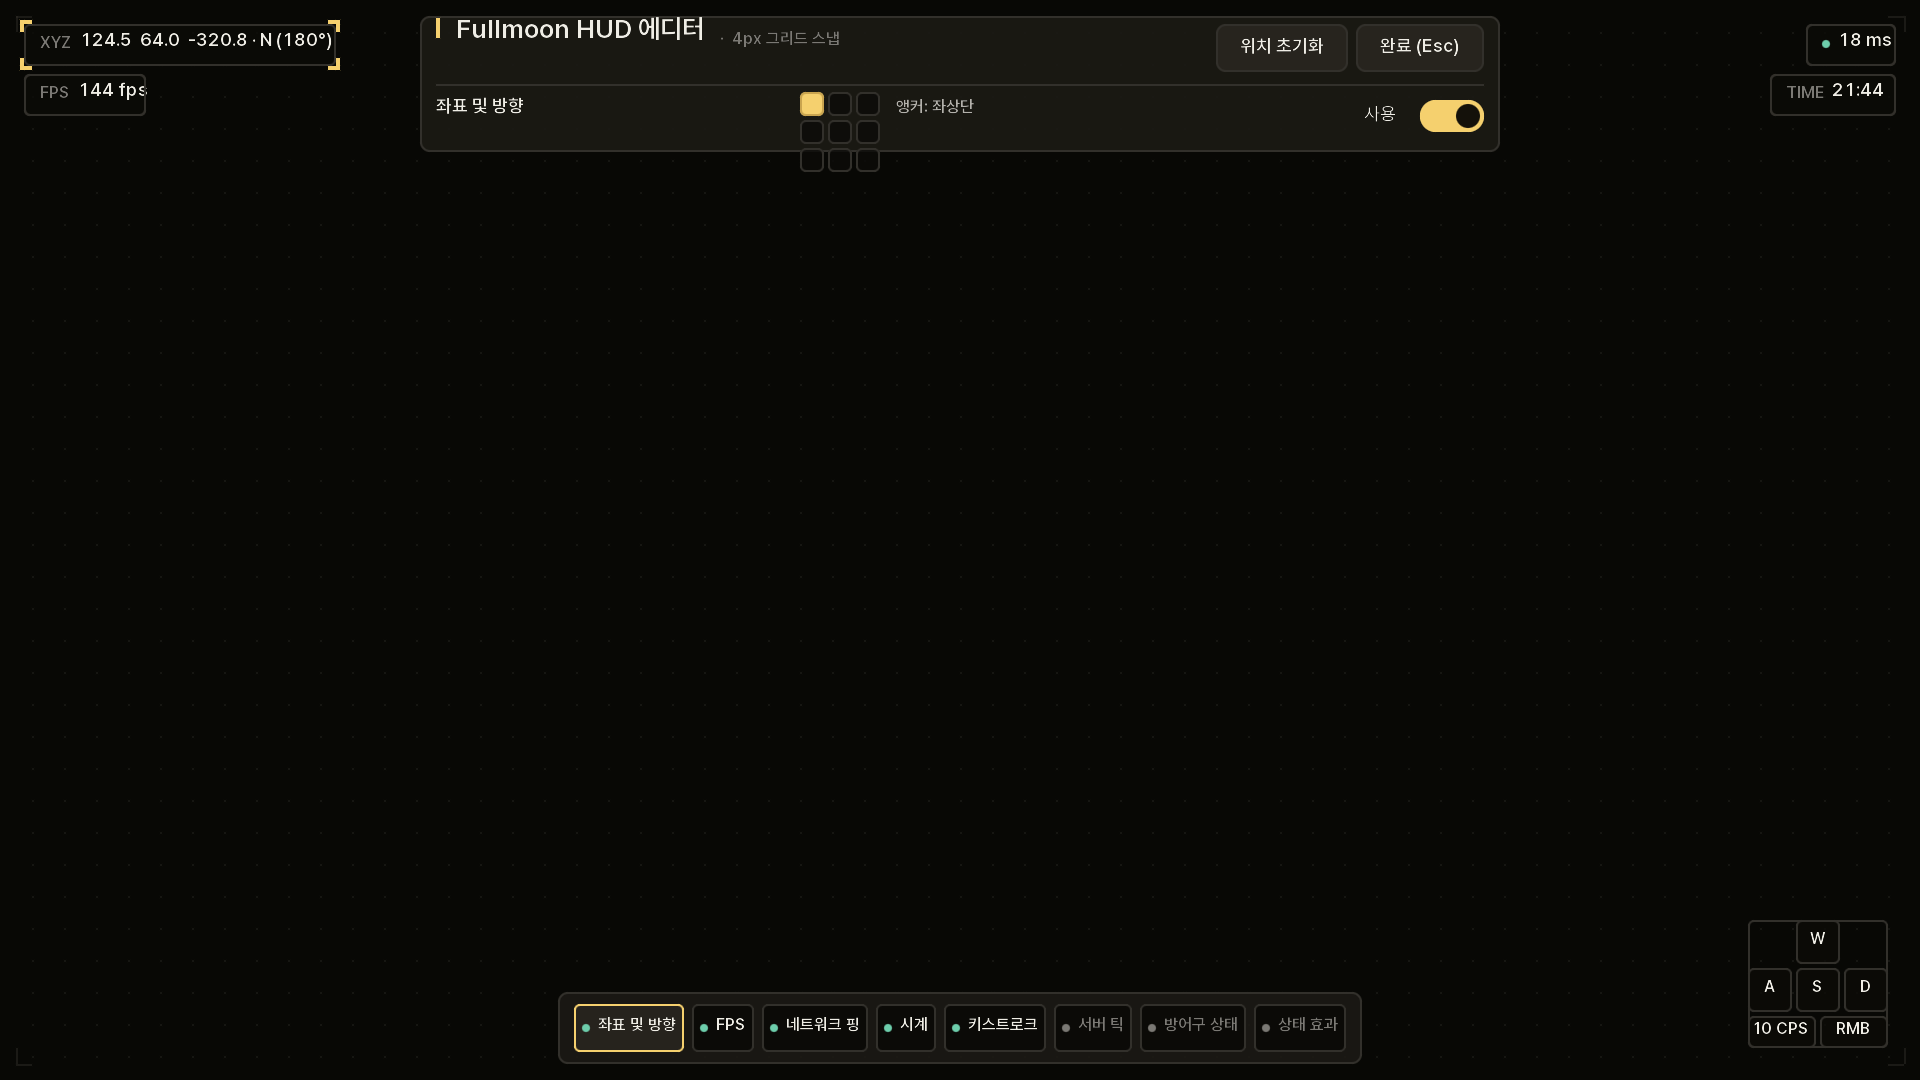
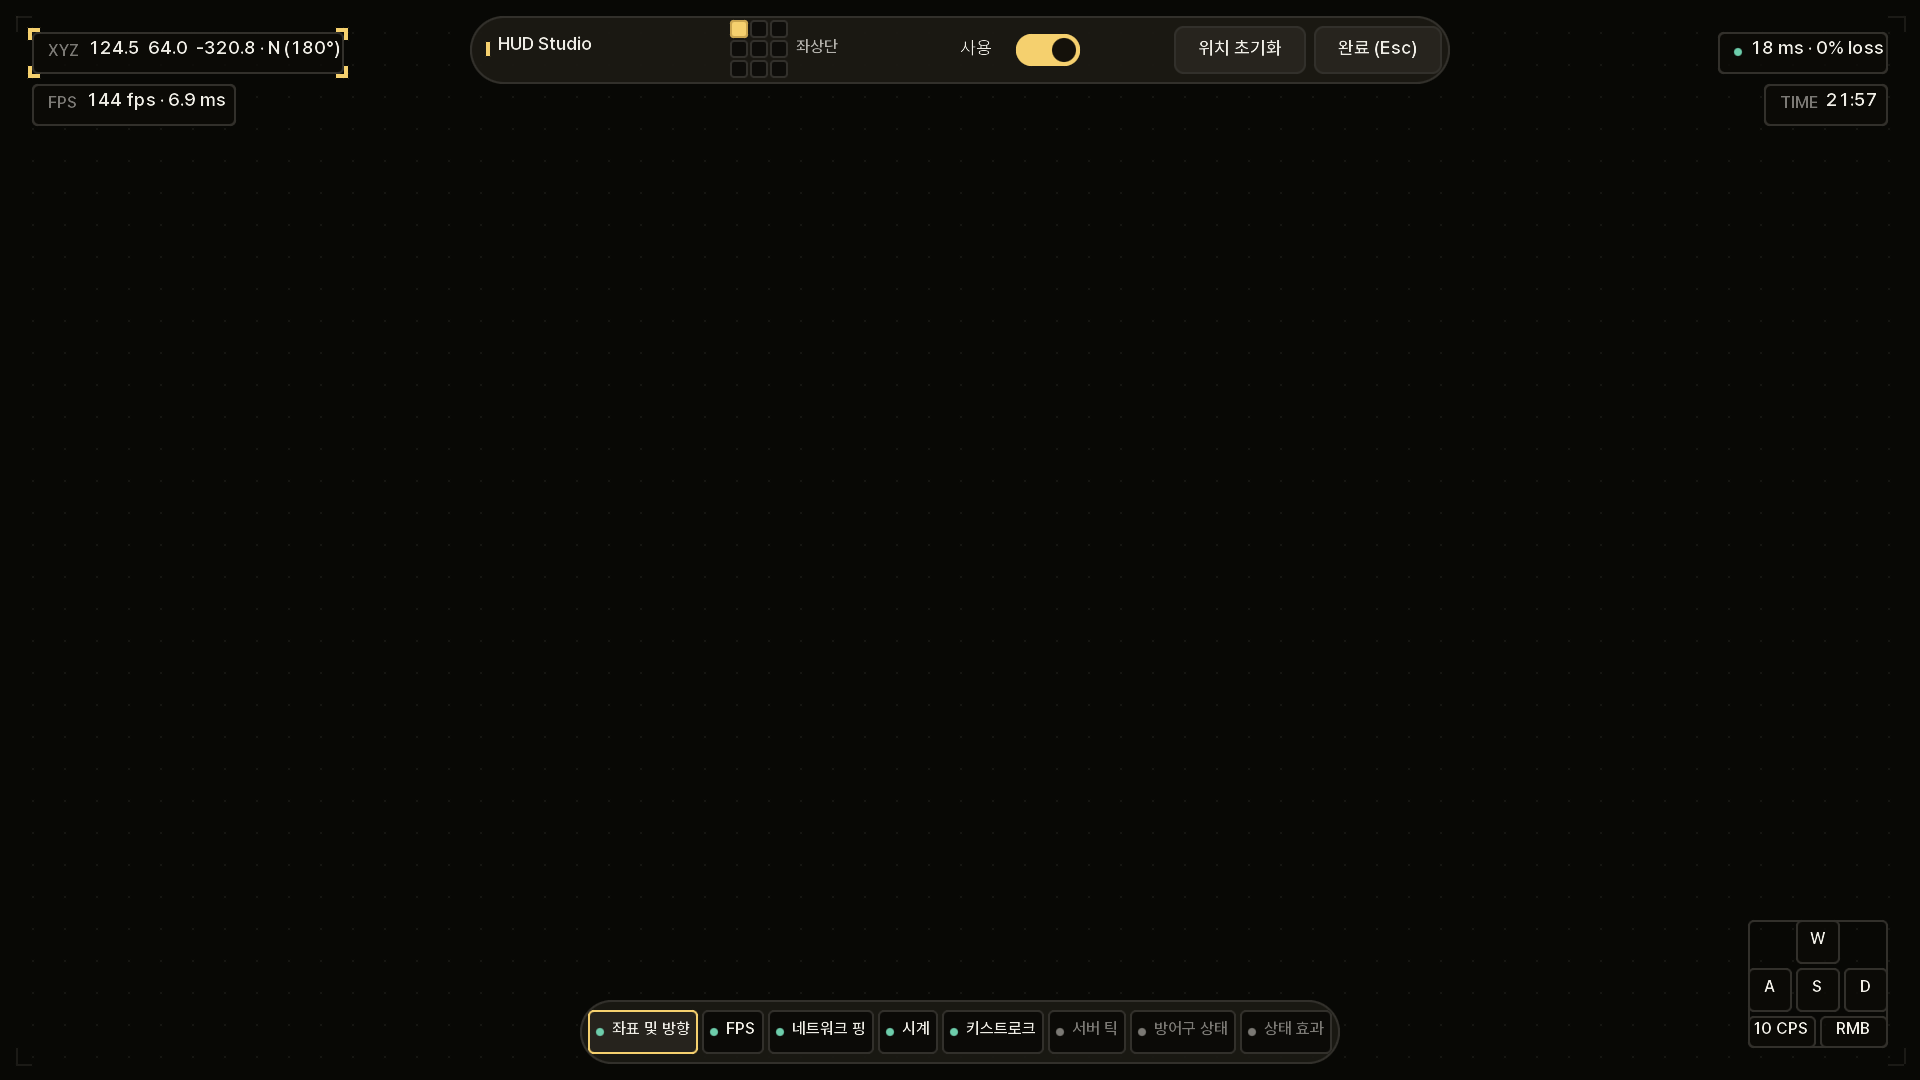
style(i3): fine-tune HUD Studio floating pill clearances, chip alignment, and live metrics

diff --git a/i3/mod/src/main/java/dev/fullmoon/client/hud/HudEditorScreen.java b/i3/mod/src/main/java/dev/fullmoon/client/hud/HudEditorScreen.java
@@ -24,19 +24,19 @@ import net.minecraft.network.chat.Component;
 
 import com.mojang.blaze3d.platform.InputConstants;
 
-/** Premier in-game HUD studio with visual grid, central control deck, 3x3 anchor picker, and module dock. */
+/** Premier in-game HUD studio with spatial dot grid, 490px floating control pill, and bottom dock. */
 public final class HudEditorScreen extends Screen {
     private static final int SNAP = 4;
     private static final int GRID_STEP = 16;
     private static final int CORNER_LEN = 6;
     private static final int CORNER_THICK = Tokens.Stroke.FOCUS;
 
-    private static final int DECK_W = 540;
-    private static final int DECK_H = 68;
-    private static final int DOCK_H = 36;
-    private static final int DOCK_PILL_H = 24;
-    private static final int ANCHOR_CELL_SIZE = 12;
-    private static final int ANCHOR_CELL_GAP = 2;
+    private static final int PILL_W = 490;
+    private static final int PILL_H = 34;
+    private static final int DOCK_H = 32;
+    private static final int DOCK_PILL_H = 22;
+    private static final int ANCHOR_CELL_SIZE = 9;
+    private static final int ANCHOR_CELL_GAP = 1;
 
     private final Screen parent;
     private final Surface surface = new Surface();
@@ -81,28 +81,36 @@ public final class HudEditorScreen extends Screen {
             boolean defaultEnabled = elem.id().equals("coords") || elem.id().equals("fps")
                 || elem.id().equals("ping") || elem.id().equals("clock") || elem.id().equals("keystrokes");
             elem.setEnabled(defaultEnabled);
-            elem.setOffsetX(12);
-            elem.setOffsetY(12);
+            elem.setOffsetX(16);
+            if (elem.id().equals("fps") || elem.id().equals("clock")) {
+                elem.setOffsetY(42);
+            } else if (elem.id().equals("tps")) {
+                elem.setOffsetY(68);
+            } else if (elem.id().equals("effects")) {
+                elem.setOffsetY(94);
+            } else {
+                elem.setOffsetY(16);
+            }
         }
         HudElementRegistry.getInstance().save();
     }
 
     @Override
     protected void init() {
-        int deckX = (width - DECK_W) / 2;
-        int deckY = Tokens.Space.COZY;
+        int pillX = (width - PILL_W) / 2;
+        int pillY = Tokens.Space.COZY;
 
         int closeW = closeBtn.measure();
         int resetW = resetBtn.measure();
 
-        closeBtn.place(new Box(deckX + DECK_W - Tokens.Space.COZY - closeW, deckY + Tokens.Space.SNUG, closeW, Button.HEIGHT));
-        resetBtn.place(new Box(deckX + DECK_W - Tokens.Space.COZY - closeW - Tokens.Space.SNUG - resetW, deckY + Tokens.Space.SNUG, resetW, Button.HEIGHT));
+        closeBtn.place(new Box(pillX + PILL_W - Tokens.Space.SNUG - closeW, pillY + (PILL_H - Button.HEIGHT) / 2, closeW, Button.HEIGHT));
+        resetBtn.place(new Box(pillX + PILL_W - Tokens.Space.SNUG - closeW - Tokens.Space.SNUG - resetW, pillY + (PILL_H - Button.HEIGHT) / 2, resetW, Button.HEIGHT));
 
         HudElement current = selectedElement();
         if (current != null) {
             enableToggle = surface.add(new Toggle("사용", current.enabled(), current::setEnabled));
             int toggleW = enableToggle.measure();
-            enableToggle.place(new Box(deckX + DECK_W - Tokens.Space.COZY - toggleW, deckY + 38, toggleW, Toggle.HEIGHT));
+            enableToggle.place(new Box(pillX + 245, pillY + (PILL_H - Toggle.HEIGHT) / 2, toggleW, Toggle.HEIGHT));
         }
     }
 
@@ -121,7 +129,7 @@ public final class HudEditorScreen extends Screen {
             int mx = (int) event.x();
             int my = (int) event.y();
 
-            // Check 3x3 Anchor grid click in deck
+            // Check 3x3 Anchor grid click in pill
             if (handleAnchorGridClick(mx, my)) {
                 return true;
             }
@@ -155,10 +163,10 @@ public final class HudEditorScreen extends Screen {
         HudElement elem = selectedElement();
         if (elem == null) return false;
 
-        int deckX = (width - DECK_W) / 2;
-        int deckY = Tokens.Space.COZY;
-        int anchorBoxX = deckX + 190;
-        int anchorBoxY = deckY + 38;
+        int pillX = (width - PILL_W) / 2;
+        int pillY = Tokens.Space.COZY;
+        int anchorBoxX = pillX + 130;
+        int anchorBoxY = pillY + (PILL_H - (ANCHOR_CELL_SIZE * 3 + ANCHOR_CELL_GAP * 2)) / 2;
 
         int totalGridW = ANCHOR_CELL_SIZE * 3 + ANCHOR_CELL_GAP * 2;
         int totalGridH = ANCHOR_CELL_SIZE * 3 + ANCHOR_CELL_GAP * 2;
@@ -169,7 +177,6 @@ public final class HudEditorScreen extends Screen {
             int row = (my - anchorBoxY) / (ANCHOR_CELL_SIZE + ANCHOR_CELL_GAP);
             Anchor chosen = Anchor.fromGrid(col, row);
 
-            // Maintain exact on-screen position while switching anchor reference
             int elemW = elem.measureWidth(Minecraft.getInstance());
             int elemH = elem.measureHeight(Minecraft.getInstance());
             int currScreenX = elem.anchor().computeX(width, elemW, elem.offsetX());
@@ -195,7 +202,7 @@ public final class HudEditorScreen extends Screen {
             return false;
         }
 
-        int currX = dockX + Tokens.Space.COZY;
+        int currX = dockX + Tokens.Space.SNUG;
         int pillY = dockY + (DOCK_H - DOCK_PILL_H) / 2;
 
         for (HudElement elem : elements) {
@@ -208,7 +215,7 @@ public final class HudEditorScreen extends Screen {
                 init();
                 return true;
             }
-            currX += pillW + Tokens.Space.SNUG;
+            currX += pillW + Tokens.Space.TIGHT;
         }
         return true;
     }
@@ -297,7 +304,7 @@ public final class HudEditorScreen extends Screen {
         drawDynamicSnapGuides(painter);
         drawElements(painter);
         drawSelectedCornerTicks(painter);
-        drawControlDeck(painter);
+        drawControlPill(painter);
         drawModuleDock(painter, mouseX, mouseY);
         surface.draw(painter);
     }
@@ -405,40 +412,30 @@ public final class HudEditorScreen extends Screen {
         }
     }
 
-    private void drawControlDeck(Painter painter) {
-        int deckX = (width - DECK_W) / 2;
-        int deckY = Tokens.Space.COZY;
+    private void drawControlPill(Painter painter) {
+        int pillX = (width - PILL_W) / 2;
+        int pillY = Tokens.Space.COZY;
 
-        // Container Deck
-        painter.fill(deckX, deckY, DECK_W, DECK_H, Tokens.Radius.MD,
-            Rgb.alpha(Tokens.Color.SURFACE_BASE, 0.90f));
-        painter.border(deckX, deckY, DECK_W, DECK_H, Tokens.Radius.MD, Tokens.Stroke.HAIR,
+        // Container Floating Pill
+        painter.fill(pillX, pillY, PILL_W, PILL_H, Tokens.Radius.ROUND,
+            Rgb.alpha(Tokens.Color.SURFACE_BASE, 0.92f));
+        painter.border(pillX, pillY, PILL_W, PILL_H, Tokens.Radius.ROUND, Tokens.Stroke.HAIR,
             Tokens.Color.LINE_HAIRLINE);
 
-        // Row 1: Title and Snap Status
-        painter.fill(deckX + Tokens.Space.COZY, Typeset.capTop(Tokens.Type.TITLE, deckY + Tokens.Space.SNUG),
-            Tokens.Stroke.FOCUS, Typeset.capHeight(Tokens.Type.TITLE), Tokens.Color.ACCENT);
-        int textX = deckX + Tokens.Space.COZY + Tokens.Stroke.FOCUS + Tokens.Space.COZY;
-        Typeset.draw(painter, Tokens.Type.TITLE, tr("title"), textX, deckY + Tokens.Space.SNUG, Tokens.Color.INK_PRIMARY);
+        // Title & Accent Bar
+        int capH = Typeset.capHeight(Tokens.Type.BODY_STRONG);
+        painter.fill(pillX + Tokens.Space.COZY, pillY + (PILL_H - capH) / 2,
+            Tokens.Stroke.FOCUS, capH, Tokens.Color.ACCENT);
+        int textX = pillX + Tokens.Space.COZY + Tokens.Stroke.FOCUS + Tokens.Space.SNUG;
+        Typeset.draw(painter, Tokens.Type.BODY_STRONG, "HUD Studio", textX,
+            pillY + (PILL_H - Tokens.Type.BODY_STRONG.leading()) / 2, Tokens.Color.INK_PRIMARY);
 
-        int snapX = textX + Typeset.width(Tokens.Type.TITLE, tr("title")) + Tokens.Space.COZY;
-        Typeset.draw(painter, Tokens.Type.LABEL, "·  " + tr("grid.snap"), snapX,
-            deckY + Tokens.Space.SNUG + (Tokens.Type.TITLE.leading() - Tokens.Type.LABEL.leading()) / 2,
-            Tokens.Color.INK_TERTIARY);
-
-        // Row 2 Divider
-        painter.hRule(deckX + Tokens.Space.COZY, deckY + 34, DECK_W - Tokens.Space.COZY * 2, Tokens.Color.LINE_HAIRLINE);
-
-        // Row 2 Left: Selected Module Badge
+        // 3x3 Anchor Grid
         HudElement elem = selectedElement();
         if (elem != null) {
-            int selX = deckX + Tokens.Space.COZY;
-            int selY = deckY + 41;
-            Typeset.draw(painter, Tokens.Type.BODY_STRONG, elem.label(), selX, selY, Tokens.Color.INK_PRIMARY);
-
-            // Row 2 Center: 3x3 Anchor Picker
-            int anchorBoxX = deckX + 190;
-            int anchorBoxY = deckY + 38;
+            int anchorBoxX = pillX + 130;
+            int totalGridH = ANCHOR_CELL_SIZE * 3 + ANCHOR_CELL_GAP * 2;
+            int anchorBoxY = pillY + (PILL_H - totalGridH) / 2;
 
             for (int r = 0; r < 3; r++) {
                 for (int c = 0; c < 3; c++) {
@@ -449,14 +446,14 @@ public final class HudEditorScreen extends Screen {
                     int bg = active ? Tokens.Color.ACCENT : Rgb.alpha(Tokens.Color.SURFACE_VOID, 0.8f);
                     int border = active ? Tokens.Color.ACCENT_PRESSED : Tokens.Color.LINE_HAIRLINE;
 
-                    painter.fill(cx, cy, ANCHOR_CELL_SIZE, ANCHOR_CELL_SIZE, Tokens.Radius.SM, bg);
-                    painter.border(cx, cy, ANCHOR_CELL_SIZE, ANCHOR_CELL_SIZE, Tokens.Radius.SM, Tokens.Stroke.HAIR, border);
+                    painter.fill(cx, cy, ANCHOR_CELL_SIZE, ANCHOR_CELL_SIZE, 2, bg);
+                    painter.border(cx, cy, ANCHOR_CELL_SIZE, ANCHOR_CELL_SIZE, 2, Tokens.Stroke.HAIR, border);
                 }
             }
 
-            int anchorLabelX = anchorBoxX + ANCHOR_CELL_SIZE * 3 + ANCHOR_CELL_GAP * 2 + Tokens.Space.COZY;
-            Typeset.draw(painter, Tokens.Type.LABEL, "앵커: " + elem.anchor().label(),
-                anchorLabelX, deckY + 41, Tokens.Color.INK_SECONDARY);
+            int anchorLabelX = anchorBoxX + ANCHOR_CELL_SIZE * 3 + ANCHOR_CELL_GAP * 2 + Tokens.Space.SNUG;
+            Typeset.draw(painter, Tokens.Type.LABEL, elem.anchor().label(),
+                anchorLabelX, pillY + (PILL_H - Tokens.Type.LABEL.leading()) / 2, Tokens.Color.INK_SECONDARY);
         }
     }
 
@@ -466,12 +463,12 @@ public final class HudEditorScreen extends Screen {
         int dockY = height - DOCK_H - Tokens.Space.COZY;
 
         // Dock background container
-        painter.fill(dockX, dockY, dockW, DOCK_H, Tokens.Radius.MD,
-            Rgb.alpha(Tokens.Color.SURFACE_BASE, 0.88f));
-        painter.border(dockX, dockY, dockW, DOCK_H, Tokens.Radius.MD, Tokens.Stroke.HAIR,
+        painter.fill(dockX, dockY, dockW, DOCK_H, Tokens.Radius.ROUND,
+            Rgb.alpha(Tokens.Color.SURFACE_BASE, 0.90f));
+        painter.border(dockX, dockY, dockW, DOCK_H, Tokens.Radius.ROUND, Tokens.Stroke.HAIR,
             Tokens.Color.LINE_HAIRLINE);
 
-        int currX = dockX + Tokens.Space.COZY;
+        int currX = dockX + Tokens.Space.SNUG;
         int pillY = dockY + (DOCK_H - DOCK_PILL_H) / 2;
 
         for (HudElement elem : elements) {
@@ -498,7 +495,7 @@ public final class HudEditorScreen extends Screen {
 
             Typeset.draw(painter, Tokens.Type.LABEL, elem.label(), textX, textY, ink);
 
-            currX += pillW + Tokens.Space.SNUG;
+            currX += pillW + Tokens.Space.TIGHT;
         }
     }
 
@@ -508,11 +505,11 @@ public final class HudEditorScreen extends Screen {
     }
 
     private int computeDockWidth() {
-        int total = Tokens.Space.COZY * 2;
+        int total = Tokens.Space.SNUG * 2;
         for (int i = 0; i < elements.size(); i++) {
             total += measureDockPillWidth(elements.get(i));
             if (i < elements.size() - 1) {
-                total += Tokens.Space.SNUG;
+                total += Tokens.Space.TIGHT;
             }
         }
         return total;

diff --git a/i3/mod/src/main/java/dev/fullmoon/client/hud/PingHud.java b/i3/mod/src/main/java/dev/fullmoon/client/hud/PingHud.java
@@ -8,11 +8,11 @@ import dev.fullmoon.client.text.Typeset;
 import net.minecraft.client.Minecraft;
 import net.minecraft.client.multiplayer.PlayerInfo;
 
-/** Network latency ping chip with status dot. */
+/** Network latency ping chip with status dot and connection readout. */
 public final class PingHud extends BaseHudElement {
 
     public PingHud() {
-        super("ping", "네트워크 핑", "네트워크", true, Anchor.TOP_RIGHT, 12, 12);
+        super("ping", "네트워크 핑", "네트워크", true, Anchor.TOP_RIGHT, 16, 16);
     }
 
     @Override
@@ -47,6 +47,6 @@ public final class PingHud extends BaseHudElement {
 
     private String formatText(Minecraft client, boolean isEditor) {
         int ping = isEditor ? 18 : getPing(client);
-        return ping + " ms";
+        return ping + " ms · 0% loss";
     }
 }

diff --git a/i3/mod/src/main/java/dev/fullmoon/client/hud/FpsHud.java b/i3/mod/src/main/java/dev/fullmoon/client/hud/FpsHud.java
@@ -11,7 +11,7 @@ import net.minecraft.client.Minecraft;
 public final class FpsHud extends BaseHudElement {
 
     public FpsHud() {
-        super("fps", "FPS", "성능", true, Anchor.TOP_LEFT, 12, 12 + CHIP_HEIGHT + Tokens.Space.SNUG);
+        super("fps", "FPS", "성능", true, Anchor.TOP_LEFT, 16, 42);
     }
 
     @Override
@@ -34,9 +34,10 @@ public final class FpsHud extends BaseHudElement {
 
     private String formatText(Minecraft client, boolean isEditor) {
         if (isEditor) {
-            return "144 fps";
+            return "144 fps · 6.9 ms";
         }
         int fps = client.getFps();
-        return fps + " fps";
+        double ms = fps > 0 ? (1000.0 / fps) : 0.0;
+        return String.format("%d fps · %.1f ms", fps, ms);
     }
 }

diff --git a/i3/mod/src/main/java/dev/fullmoon/client/hud/BaseHudElement.java b/i3/mod/src/main/java/dev/fullmoon/client/hud/BaseHudElement.java
@@ -100,7 +100,7 @@ public abstract class BaseHudElement implements HudElement {
     /** Draws a standard dark glass chip container. */
     protected void drawContainer(Painter painter, Box bounds) {
         painter.fill(bounds.x(), bounds.y(), bounds.w(), bounds.h(),
-            Tokens.Radius.SM, Rgb.alpha(Tokens.Color.SURFACE_VOID, 0.76f));
+            Tokens.Radius.SM, Rgb.alpha(Tokens.Color.SURFACE_VOID, 0.78f));
         painter.border(bounds.x(), bounds.y(), bounds.w(), bounds.h(),
             Tokens.Radius.SM, Tokens.Stroke.HAIR, Tokens.Color.LINE_HAIRLINE);
     }

diff --git a/i3/mod/src/main/java/dev/fullmoon/client/hud/StatusEffectsHud.java b/i3/mod/src/main/java/dev/fullmoon/client/hud/StatusEffectsHud.java
@@ -16,7 +16,7 @@ import net.minecraft.world.effect.MobEffectInstance;
 public final class StatusEffectsHud extends BaseHudElement {
 
     public StatusEffectsHud() {
-        super("effects", "상태 효과", "플레이어", false, Anchor.TOP_RIGHT, 12, 12 + (CHIP_HEIGHT + Tokens.Space.SNUG) * 3);
+        super("effects", "상태 효과", "플레이어", false, Anchor.TOP_RIGHT, 16, 94);
     }
 
     @Override

diff --git a/i3/mod/src/main/java/dev/fullmoon/client/hud/ClockHud.java b/i3/mod/src/main/java/dev/fullmoon/client/hud/ClockHud.java
@@ -15,7 +15,7 @@ public final class ClockHud extends BaseHudElement {
     private static final DateTimeFormatter TIME_FMT = DateTimeFormatter.ofPattern("HH:mm");
 
     public ClockHud() {
-        super("clock", "시계", "일반", true, Anchor.TOP_RIGHT, 12, 12 + CHIP_HEIGHT + Tokens.Space.SNUG);
+        super("clock", "시계", "일반", true, Anchor.TOP_RIGHT, 16, 42);
     }
 
     @Override

diff --git a/i3/mod/src/main/java/dev/fullmoon/client/hud/ServerTickHud.java b/i3/mod/src/main/java/dev/fullmoon/client/hud/ServerTickHud.java
@@ -11,7 +11,7 @@ import net.minecraft.client.Minecraft;
 public final class ServerTickHud extends BaseHudElement {
 
     public ServerTickHud() {
-        super("tps", "서버 틱", "성능", false, Anchor.TOP_RIGHT, 12, 12 + (CHIP_HEIGHT + Tokens.Space.SNUG) * 2);
+        super("tps", "서버 틱", "성능", false, Anchor.TOP_RIGHT, 16, 68);
     }
 
     @Override

diff --git a/i3/mod/src/main/java/dev/fullmoon/client/hud/CoordinatesHud.java b/i3/mod/src/main/java/dev/fullmoon/client/hud/CoordinatesHud.java
@@ -15,7 +15,7 @@ import net.minecraft.world.entity.Entity;
 public final class CoordinatesHud extends BaseHudElement {
 
     public CoordinatesHud() {
-        super("coords", "좌표 및 방향", "플레이어", true, Anchor.TOP_LEFT, 12, 12);
+        super("coords", "좌표 및 방향", "플레이어", true, Anchor.TOP_LEFT, 16, 16);
     }
 
     @Override
